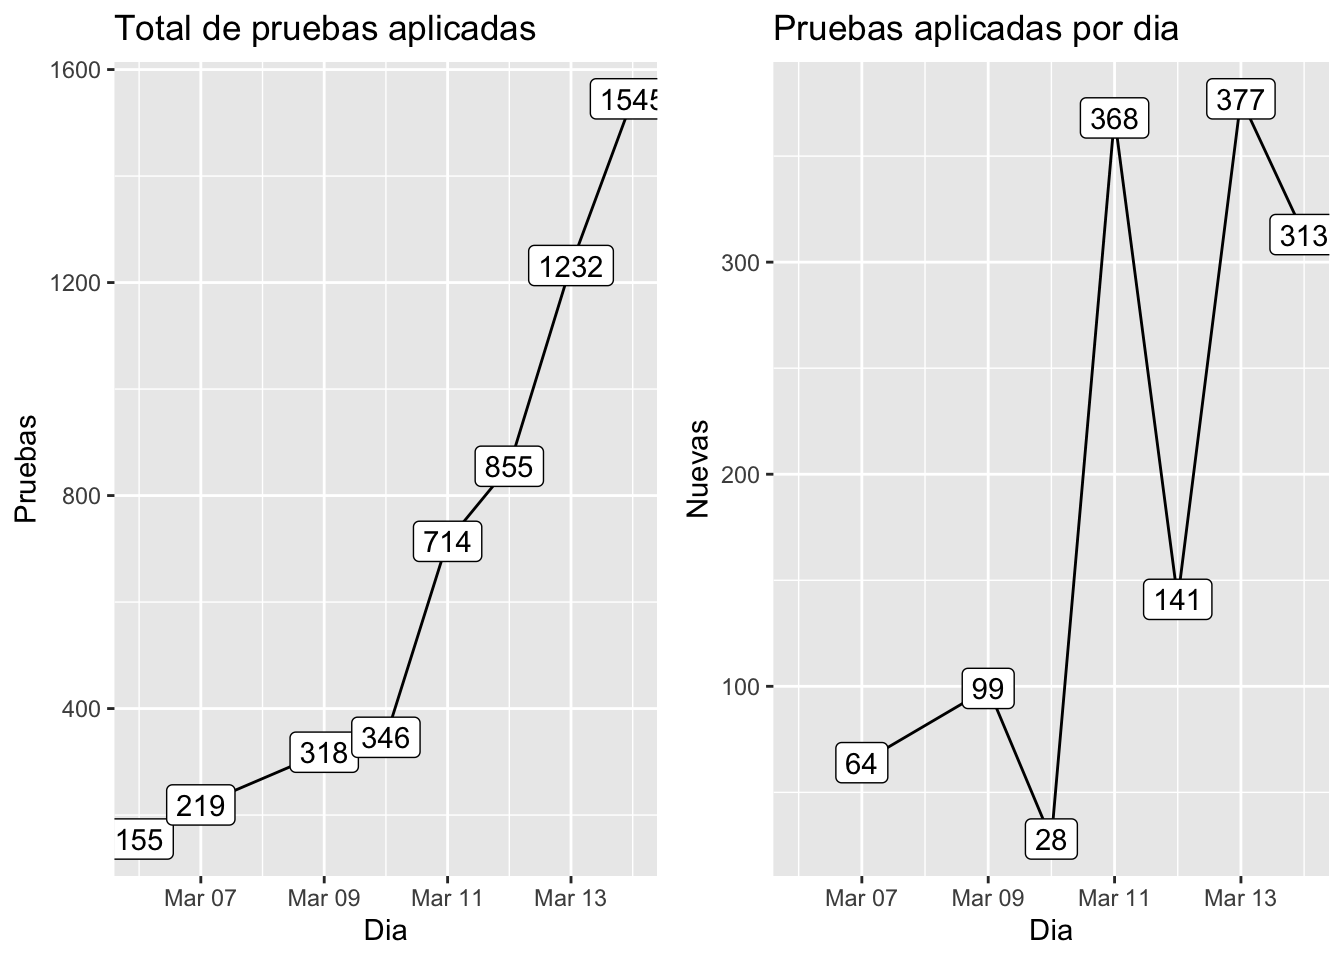
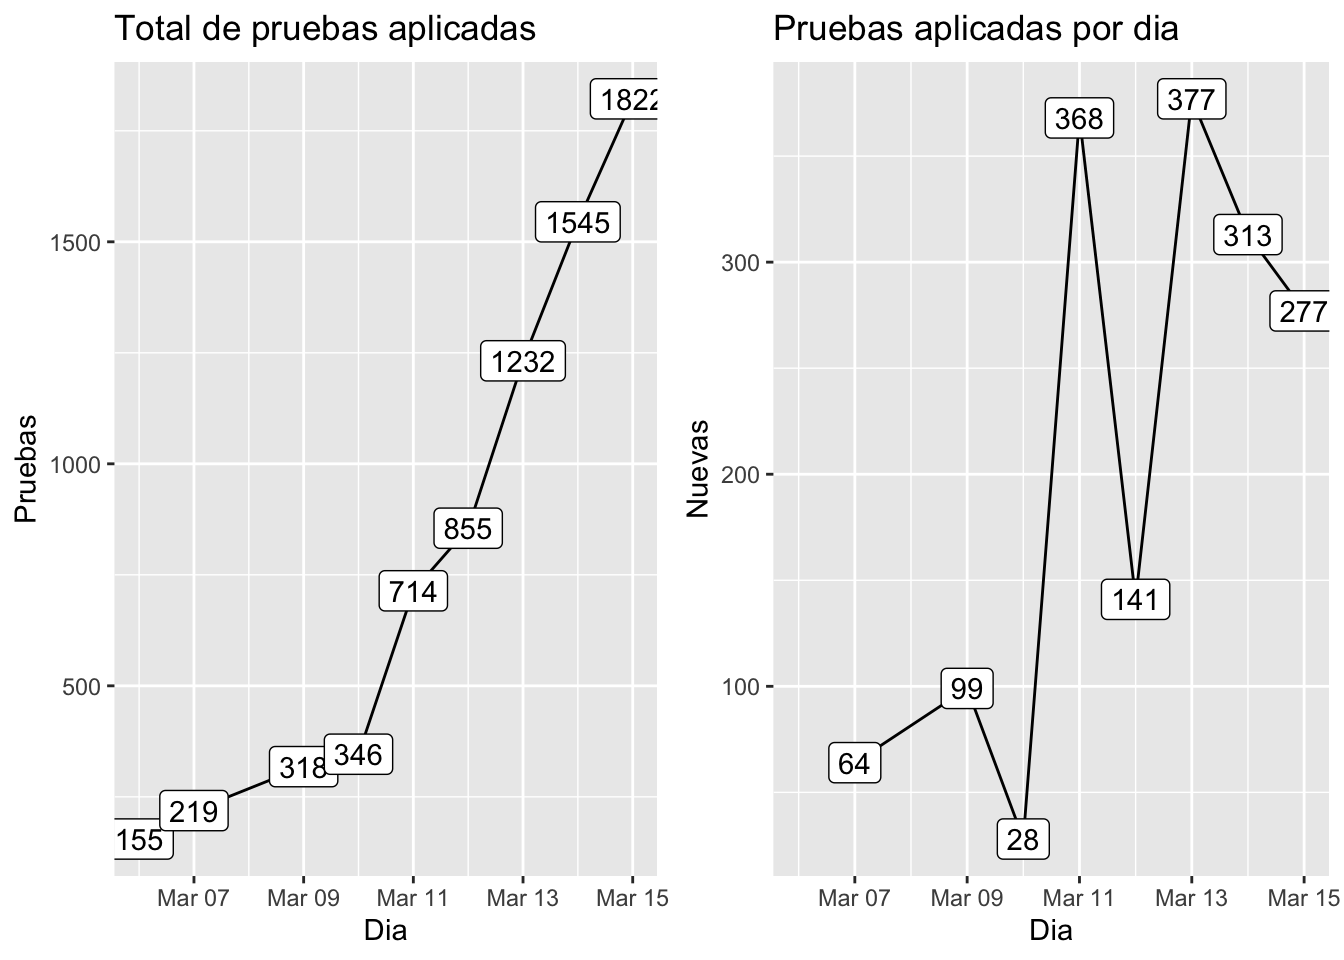
Propagación

diff --git a/docs/Propagacion.html b/docs/Propagacion.html
@@ -371,8 +371,8 @@ div.tocify {
 
 <div id="casos-reportados" class="section level2">
 <h2><span class="header-section-number">0.1</span> Casos Reportados</h2>
-<div id="numero-de-pacientes-positivos-acumulados" class="section level3">
-<h3><span class="header-section-number">0.1.1</span> Número de pacientes positivos (acumulados)</h3>
+<div id="numero-de-pacientes-positivos" class="section level3">
+<h3><span class="header-section-number">0.1.1</span> Número de pacientes positivos</h3>
 <pre><code>## Warning: Removed 1 rows containing missing values (geom_path).</code></pre>
 <pre><code>## Warning: Removed 1 rows containing missing values (geom_label).</code></pre>
 <p><img src="Propagacion_files/figure-html/unnamed-chunk-2-1.png" width="672" /></p>
@@ -386,18 +386,182 @@ div.tocify {
 </div>
 <div id="tabla" class="section level2">
 <h2><span class="header-section-number">0.2</span> Tabla</h2>
-<pre><code>## # A tibble: 8 x 5
-##   Dia                 Positivos Pruebas_aplicad… Pruebas_XDia
-##   &lt;dttm&gt;                  &lt;dbl&gt;            &lt;dbl&gt;        &lt;dbl&gt;
-## 1 2020-03-06 00:00:00         1              155           NA
-## 2 2020-03-07 00:00:00         6              219           64
-## 3 2020-03-09 00:00:00         9              318           99
-## 4 2020-03-10 00:00:00        11              346           28
-## 5 2020-03-11 00:00:00        17              714          368
-## 6 2020-03-12 00:00:00        22              855          141
-## 7 2020-03-13 00:00:00        38             1232          377
-## 8 2020-03-14 00:00:00        43             1545          313
-## # … with 1 more variable: Nuevos_Positivos &lt;dbl&gt;</code></pre>
+<table>
+<thead>
+<tr>
+<th style="text-align:left;">
+Dia
+</th>
+<th style="text-align:right;">
+Positivos
+</th>
+<th style="text-align:right;">
+Pruebas_aplicadas
+</th>
+<th style="text-align:right;">
+Pruebas_XDia
+</th>
+<th style="text-align:right;">
+Nuevos_Positivos
+</th>
+</tr>
+</thead>
+<tbody>
+<tr>
+<td style="text-align:left;">
+2020-03-06
+</td>
+<td style="text-align:right;">
+1
+</td>
+<td style="text-align:right;">
+155
+</td>
+<td style="text-align:right;">
+NA
+</td>
+<td style="text-align:right;">
+NA
+</td>
+</tr>
+<tr>
+<td style="text-align:left;">
+2020-03-07
+</td>
+<td style="text-align:right;">
+6
+</td>
+<td style="text-align:right;">
+219
+</td>
+<td style="text-align:right;">
+64
+</td>
+<td style="text-align:right;">
+5
+</td>
+</tr>
+<tr>
+<td style="text-align:left;">
+2020-03-09
+</td>
+<td style="text-align:right;">
+9
+</td>
+<td style="text-align:right;">
+318
+</td>
+<td style="text-align:right;">
+99
+</td>
+<td style="text-align:right;">
+3
+</td>
+</tr>
+<tr>
+<td style="text-align:left;">
+2020-03-10
+</td>
+<td style="text-align:right;">
+11
+</td>
+<td style="text-align:right;">
+346
+</td>
+<td style="text-align:right;">
+28
+</td>
+<td style="text-align:right;">
+2
+</td>
+</tr>
+<tr>
+<td style="text-align:left;">
+2020-03-11
+</td>
+<td style="text-align:right;">
+17
+</td>
+<td style="text-align:right;">
+714
+</td>
+<td style="text-align:right;">
+368
+</td>
+<td style="text-align:right;">
+6
+</td>
+</tr>
+<tr>
+<td style="text-align:left;">
+2020-03-12
+</td>
+<td style="text-align:right;">
+22
+</td>
+<td style="text-align:right;">
+855
+</td>
+<td style="text-align:right;">
+141
+</td>
+<td style="text-align:right;">
+5
+</td>
+</tr>
+<tr>
+<td style="text-align:left;">
+2020-03-13
+</td>
+<td style="text-align:right;">
+38
+</td>
+<td style="text-align:right;">
+1232
+</td>
+<td style="text-align:right;">
+377
+</td>
+<td style="text-align:right;">
+16
+</td>
+</tr>
+<tr>
+<td style="text-align:left;">
+2020-03-14
+</td>
+<td style="text-align:right;">
+43
+</td>
+<td style="text-align:right;">
+1545
+</td>
+<td style="text-align:right;">
+313
+</td>
+<td style="text-align:right;">
+5
+</td>
+</tr>
+<tr>
+<td style="text-align:left;">
+2020-03-15
+</td>
+<td style="text-align:right;">
+71
+</td>
+<td style="text-align:right;">
+1822
+</td>
+<td style="text-align:right;">
+277
+</td>
+<td style="text-align:right;">
+28
+</td>
+</tr>
+</tbody>
+</table>
 </div>
 <div id="mapa" class="section level2">
 <h2><span class="header-section-number">0.3</span> Mapa</h2>
